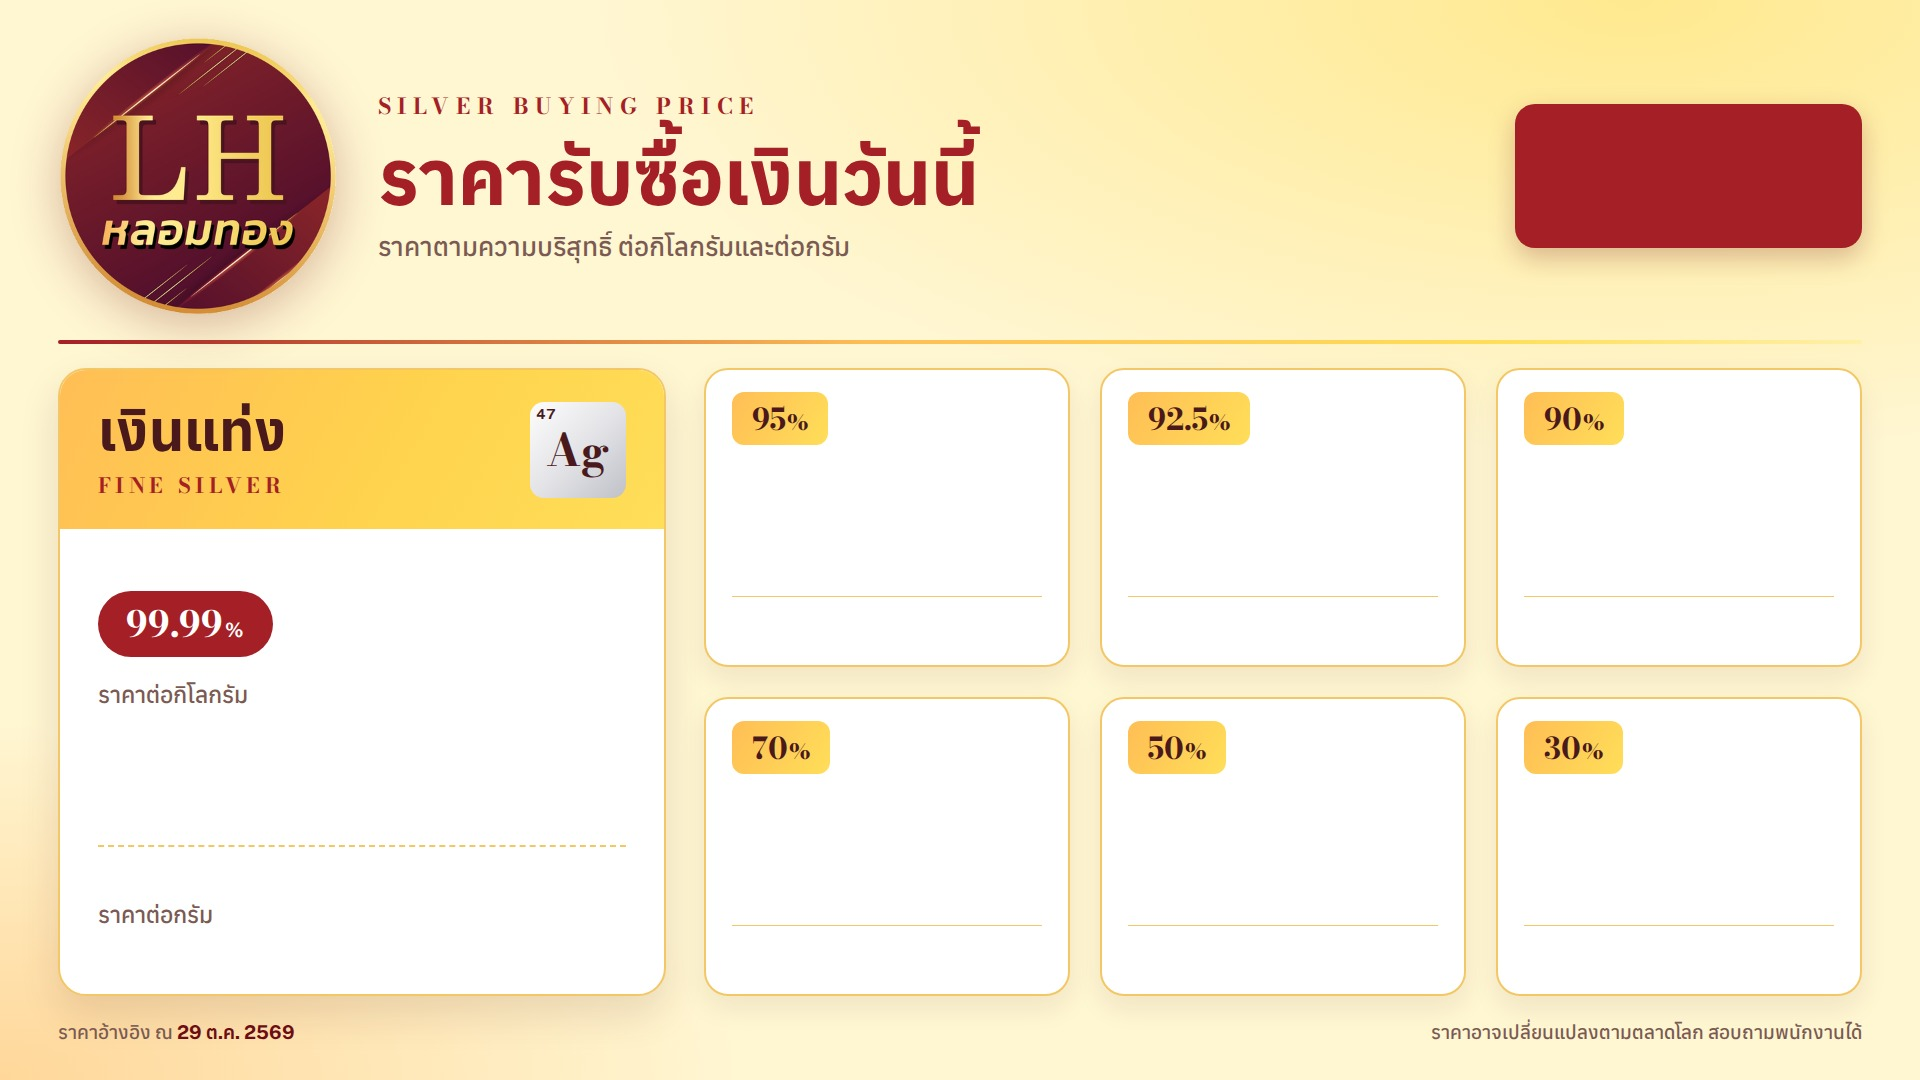
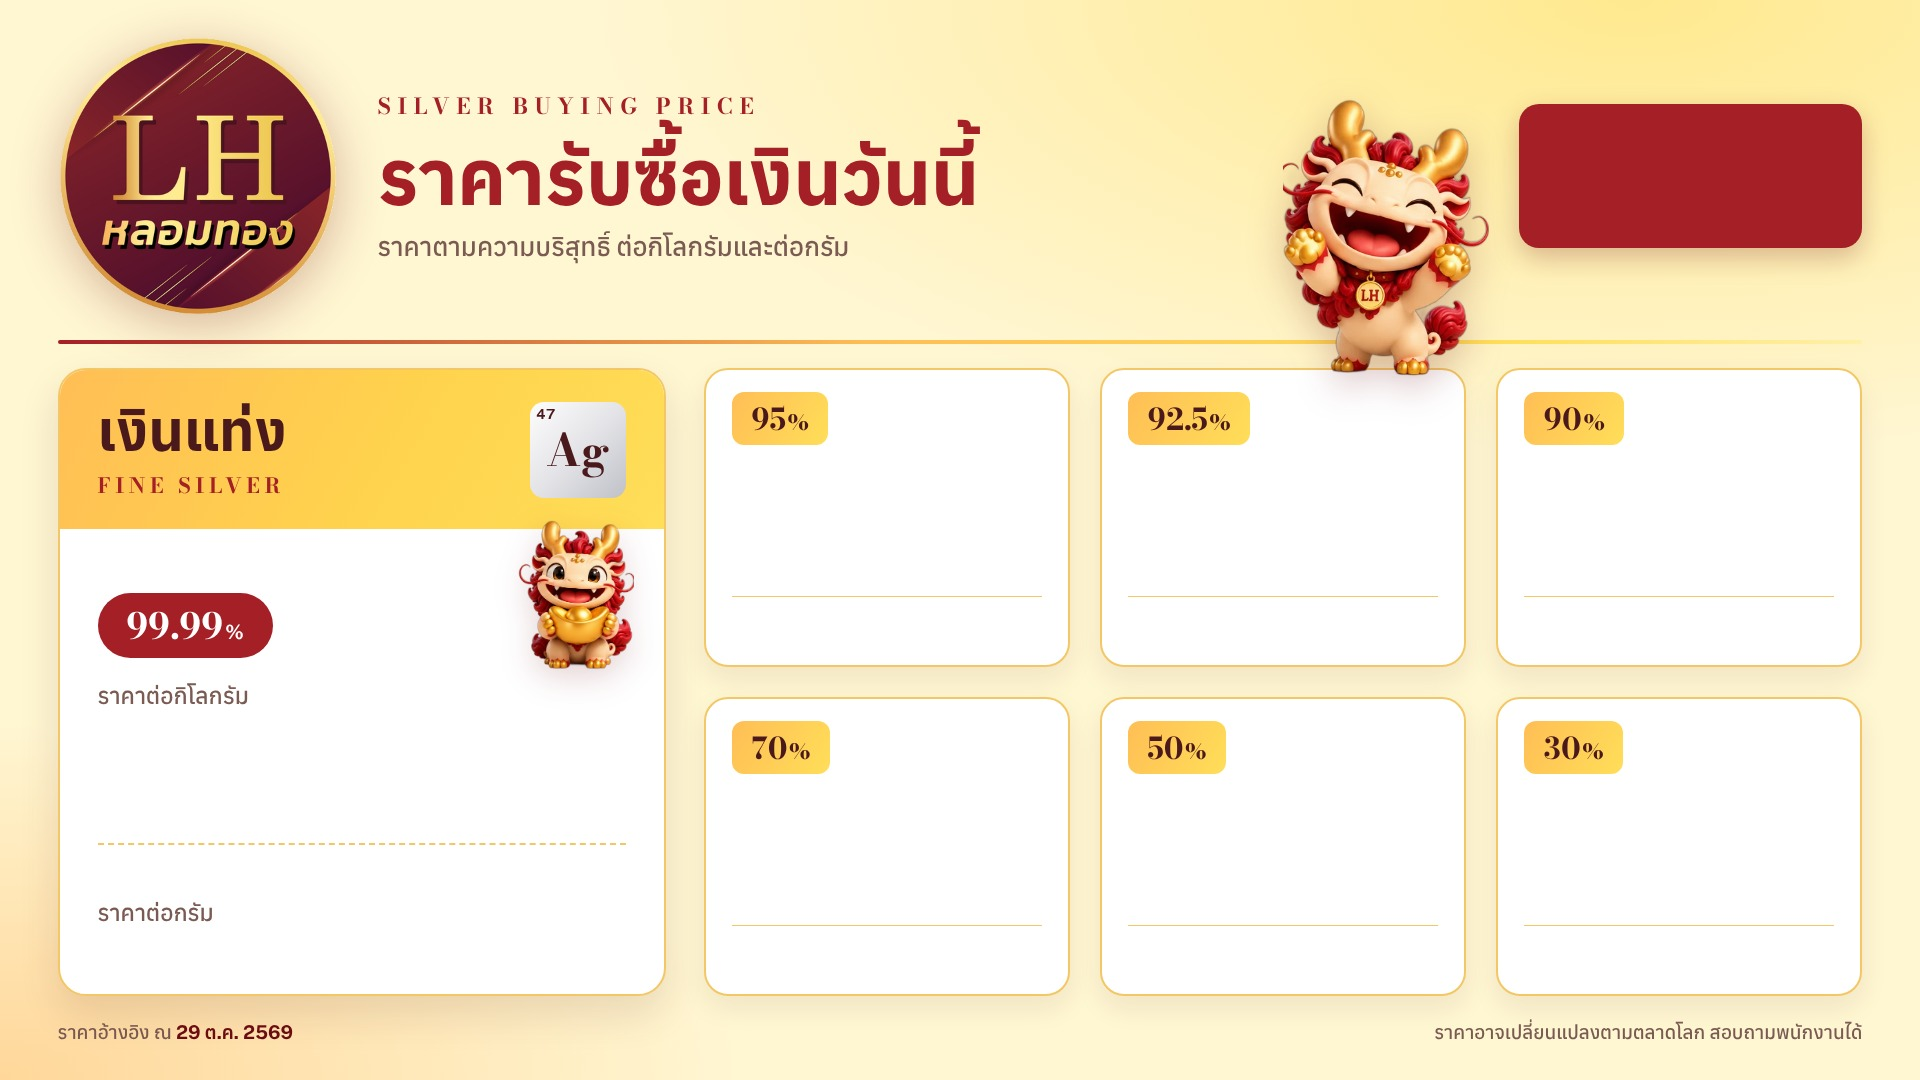
Add shop mascot to price, calculator, branch pages and TV board
Claude-Session: https://claude.ai/code/session_01DfymLQTPKgzDrxZZm2K99i

diff --git a/board.html b/board.html
@@ -47,6 +47,11 @@ header{display:flex;align-items:center;gap:40px;flex-wrap:wrap}
 .eyebrow{font-family:var(--display);font-weight:700;letter-spacing:.3em;text-transform:uppercase;color:var(--red);font-size:22px}
 .brand h1{margin:.15em 0 0;font-weight:700;font-size:76px;line-height:1.15;color:var(--burgundy);text-wrap:balance}
 .brand .sub{margin-top:.3em;font-size:26px;color:var(--muted);font-weight:500}
+.metal .price{position:relative}
+.metal .mm{position:absolute;right:22px;bottom:10px;height:170px;filter:drop-shadow(0 10px 16px rgba(109,12,19,.18))}
+.hero{position:relative}
+.hero .hm{position:absolute;right:30px;top:150px;height:150px;filter:drop-shadow(0 10px 16px rgba(109,12,19,.18))}
+.tvm{height:290px;margin:-60px -10px -62px 0;align-self:flex-end;filter:drop-shadow(0 12px 18px rgba(109,12,19,.25))}
 .clock{text-align:right;font-variant-numeric:tabular-nums;background:var(--burgundy);color:#fff;
   padding:22px 32px;border-radius:20px;box-shadow:0 10px 26px rgba(109,12,19,.25)}
 .clock .time{font-family:var(--display);font-weight:700;font-size:64px;line-height:1}
@@ -160,6 +165,7 @@ html{-webkit-text-size-adjust:100%;text-size-adjust:100%}
           <h1>ราคารับซื้อโลหะมีค่าวันนี้</h1>
           <div class="sub">แพลตินัม · แพลเลเดียม · โรเดียม</div>
         </div>
+        <img class="tvm" src="img/mascot-smile.webp" alt="">
         <div class="clock"><div class="time">--:--</div><div class="date"></div></div>
       </header>
       <hr class="rule">
@@ -180,6 +186,7 @@ html{-webkit-text-size-adjust:100%;text-size-adjust:100%}
           <h1>ราคารับซื้อเงินวันนี้</h1>
           <div class="sub">ราคาตามความบริสุทธิ์ ต่อกิโลกรัมและต่อกรัม</div>
         </div>
+        <img class="tvm" src="img/mascot-cheer.webp" alt="">
         <div class="clock"><div class="time">--:--</div><div class="date"></div></div>
       </header>
       <hr class="rule">
@@ -190,6 +197,7 @@ html{-webkit-text-size-adjust:100%;text-size-adjust:100%}
             <div class="sym" aria-hidden="true"><i>47</i><b>Ag</b></div>
           </div>
           <div class="body" id="silverHero"></div>
+          <img class="hm" src="img/mascot-ingot.webp" alt="">
         </article>
         <div class="grades" id="grades"></div>
       </div>
@@ -231,7 +239,7 @@ document.querySelectorAll(".asof").forEach(el => el.textContent = CONFIG.asOf);
 /* page 1 */
 const baseTHB = m => m.thbPerGram ?? m.usdPerGram * CONFIG.fx;
 const net = m => Math.round(baseTHB(m) * (1 - (m.discount ?? CONFIG.discount)) * 100) / 100;   /* ส่วนลดแยกรายโลหะได้ */
-document.getElementById("metals").innerHTML = CONFIG.metals.map(m => `
+document.getElementById("metals").innerHTML = CONFIG.metals.map((m, i) => `
   <article class="metal">
     <div class="band">
       <div class="names"><div class="th">${m.th}</div><div class="en">${m.en}</div></div>
@@ -241,6 +249,7 @@ document.getElementById("metals").innerHTML = CONFIG.metals.map(m => `
       <div class="label">ราคาต่อกรัม</div>
       <div class="num">${fmt0(net(m))}</div>
       <span class="unit">บาท / กรัม</span>
+      <img class="mm" src="img/mascot-${["look","ingot","play"][i % 3]}.webp" alt="">
     </div>
   </article>`).join("");
 

diff --git a/calc/index.html b/calc/index.html
@@ -29,6 +29,8 @@
   }
   /* header */
   header{display:flex;align-items:center;gap:10px}
+  header{position:relative}
+  header img.mascot{position:absolute;right:92px;bottom:-17px;width:auto;height:66px;border:0;border-radius:0;background:none;object-fit:contain;pointer-events:none;filter:drop-shadow(0 4px 8px rgba(0,0,0,.4))}
   header img{width:42px;height:42px;border-radius:11px;border:1px solid var(--gold);object-fit:cover;background:var(--burgundy)}
   .brand{flex:1;min-width:0}
   .brand h1{margin:0;display:flex;align-items:baseline;gap:6px;line-height:1}
@@ -119,6 +121,7 @@
 
   /* result */
   .result{margin-top:auto;padding:15px 16px;border-radius:20px;background:linear-gradient(135deg,#ffe57a 0%,#ffcf5c 45%,#e9a83a 100%);color:var(--ink);box-shadow:0 10px 30px rgba(255,189,89,.22)}
+  .result{position:relative}
   .result .top{display:flex;justify-content:space-between;align-items:center;font-size:13px;font-weight:700}
   .result .big{margin:3px 0 1px;font-size:40px;font-weight:800;letter-spacing:-.5px;line-height:1.1}
   .result .big small{font-family:'Noto Sans Thai',sans-serif;font-size:18px;font-weight:700;margin-left:6px}
@@ -137,6 +140,8 @@
   .guar .tag svg{flex:none}
   .reset{border:0;background:rgba(42,7,9,.12);color:var(--ink);font:inherit;font-size:12px;font-weight:700;padding:6px 10px;border-radius:999px;cursor:pointer}
   .notice{display:flex;gap:8px;align-items:flex-start;margin:0;padding:9px 12px;border-radius:12px;background:rgba(0,0,0,.3);font-size:12px;line-height:1.5;color:var(--cream)}
+  .notice .nmascot{flex:none;height:46px;margin:-6px 0 -6px -4px}
+  .notice{align-items:center}
   .notice svg{flex:none;margin-top:2px;color:var(--gold)}
   .foot{display:grid;grid-template-columns:1fr 1fr;gap:10px}
   .foot a{height:44px;border-radius:12px;display:flex;align-items:center;justify-content:center;gap:7px;text-decoration:none;font-weight:700;font-size:14px}
@@ -163,6 +168,7 @@
       <h1><span class="lh">LH</span><span class="nm">หลอมทอง</span></h1>
       <p>ประเมินราคารับซื้อเบื้องต้น</p>
     </div>
+    <img class="mascot" src="../img/mascot-look.webp" alt="" aria-hidden="true">
     <span class="live off" id="live"><i></i><span id="liveTxt">กำลังโหลด</span></span>
   </header>
 
@@ -276,7 +282,7 @@
   </section>
 
   <p class="notice" id="notice">
-    <svg aria-hidden="true" width="14" height="14" viewBox="0 0 24 24" fill="none" stroke="currentColor" stroke-width="2.2" stroke-linecap="round" stroke-linejoin="round"><circle cx="12" cy="12" r="9"/><path d="M12 8v5M12 16.5v.5"/></svg>
+    <img class="nmascot" src="../img/mascot-thanks.webp" alt="" aria-hidden="true">
     <span id="noticeTxt">ราคานี้เป็นการประเมินเบื้องต้น ราคารับซื้อจริงขึ้นอยู่กับ % และน้ำหนักหลังหลอมเท่านั้น</span>
   </p>
 

diff --git a/m/index.html b/m/index.html
@@ -46,7 +46,8 @@ body::before{content:"";position:fixed;inset:0 0 auto 0;height:calc(var(--u)*100
 .brand h1{margin:0;font:700 calc(var(--u)*20)/1.15 "Anuphan",sans-serif}
 .brand h1 b{color:var(--gold);font-family:"Bodoni Moda",serif;font-weight:700;margin-right:calc(var(--u)*5)}
 .brand p{margin:calc(var(--u)*2) 0 0;font:500 calc(var(--u)*13)/1.2 "Anuphan",sans-serif;color:#f6dfc0}
-.clock{text-align:right;font:500 calc(var(--u)*12)/1.25 "Anuphan",sans-serif;color:#f6dfc0}
+.mascot{position:absolute;right:calc(var(--u)*92);bottom:0;height:calc(var(--u)*98);z-index:0;pointer-events:none;filter:drop-shadow(0 calc(var(--u)*4) calc(var(--u)*8) rgba(0,0,0,.35))}
+.clock{position:relative;z-index:1;text-align:right;font:500 calc(var(--u)*12)/1.25 "Anuphan",sans-serif;color:#f6dfc0}
 .clock .num{display:block;font-size:calc(var(--u)*20);font-weight:700;color:#fff}
 
 main{position:relative;z-index:1;flex:1;min-height:0;margin-top:calc(var(--u)*-30);padding:0 calc(var(--u)*12) calc(var(--u)*8);
@@ -75,6 +76,7 @@ main{position:relative;z-index:1;flex:1;min-height:0;margin-top:calc(var(--u)*-3
 .silver .pill{background:var(--wine)}
 .silver .prices{display:flex;align-items:flex-end;justify-content:space-between;gap:calc(var(--u)*10);margin-top:calc(var(--u)*6)}
 .silver .kg .num{font-size:calc(var(--u)*38);color:var(--burgundy)}
+.silver .smascot{height:calc(var(--u)*66);margin:0 0 calc(var(--u)*-6) auto;align-self:flex-end;filter:drop-shadow(0 calc(var(--u)*3) calc(var(--u)*5) rgba(74,25,28,.18))}
 .silver .g{text-align:right;padding-left:calc(var(--u)*12);border-left:1px solid var(--line)}
 .silver .g .num{font-size:calc(var(--u)*26);color:var(--ink)}
 
@@ -101,6 +103,7 @@ main{position:relative;z-index:1;flex:1;min-height:0;margin-top:calc(var(--u)*-3
   <header>
     <img class="logo" src="logo.png" alt="LH หลอมทอง">
     <div class="brand"><h1><b>LH</b>หลอมทอง</h1><p>ราคารับซื้อวันนี้</p></div>
+    <img class="mascot" src="../img/mascot-cheer.webp" alt="" aria-hidden="true">
     <div class="clock"><span class="num" id="time">&nbsp;</span><span id="today">&nbsp;</span></div>
   </header>
 
@@ -117,6 +120,7 @@ main{position:relative;z-index:1;flex:1;min-height:0;margin-top:calc(var(--u)*-3
       <div class="row"><div class="label">เงิน 99.99%</div><span class="pill">รับซื้อ</span></div>
       <div class="prices">
         <div class="kg"><span class="num v skeleton" id="sKg">00,000</span><span class="unit">บาท / กิโลกรัม</span></div>
+        <img class="smascot" src="../img/mascot-play.webp" alt="" aria-hidden="true">
         <div class="g"><span class="num v skeleton" id="sG">00</span><span class="unit">บาท / กรัม</span></div>
       </div>
     </section>

diff --git a/branch/index.html b/branch/index.html
@@ -35,6 +35,8 @@
   a{text-decoration:none}
   .th{font-family:'Noto Sans Thai',sans-serif}
   header{display:flex;flex-direction:column;align-items:center;gap:8px;text-align:center}
+  header{position:relative}
+  header img.mascot{position:absolute;right:-4px;top:-6px;width:auto;height:118px;border:0;border-radius:0;box-shadow:none;object-fit:contain;filter:drop-shadow(0 8px 14px rgba(0,0,0,.45))}
   header img{width:80px;height:80px;border-radius:20px;border:1.5px solid var(--gold);box-shadow:0 8px 24px rgba(0,0,0,.45);object-fit:cover}
   .brand{display:flex;align-items:baseline;gap:8px;margin:0}
   .brand .lh{font-family:'Bodoni Moda',serif;font-weight:700;font-size:30px;letter-spacing:1px;color:var(--gold)}
@@ -57,9 +59,11 @@
   footer{display:flex;flex-direction:column;gap:10px}
   .line{background:var(--red);color:#fff;font-family:'Noto Sans Thai',sans-serif;font-size:14px}
   .share{border:1px solid rgba(255,222,89,.35);background:rgba(255,255,255,.06);color:var(--gold);font-family:'Noto Sans Thai',sans-serif;font-size:14px}
+  .tag .tmascot{height:40px;vertical-align:middle;margin:-10px 8px -8px 0}
   .tag{margin:0;text-align:center;font-family:'Bodoni Moda',serif;font-size:11px;letter-spacing:2px;color:#d9b98a}
   @media (max-height:700px){
     header img{width:60px;height:60px;border-radius:16px}
+    header img.mascot{width:auto;height:96px}
     .brand .lh{font-size:26px}.brand .name{font-size:21px}
     .card{padding:11px 14px;gap:8px}
     .btn{height:42px}
@@ -70,6 +74,7 @@
 <div class="page">
   <header>
     <img src="../m/logo.png" alt="โลโก้ LH หลอมทอง">
+    <img class="mascot" src="../img/mascot-wave.webp" alt="" aria-hidden="true">
     <h1 class="brand"><span class="lh">LH</span><span class="name">หลอมทอง</span></h1>
     <p class="sub th">เลือกสาขาที่สะดวก กดโทรหรือนำทางได้ทันที</p>
   </header>
@@ -87,7 +92,7 @@
         <span id="shareLabel">แชร์ลิงก์</span>
       </button>
     </div>
-    <p class="tag">LH LHOMTHONG · GOLD</p>
+    <p class="tag"><img class="tmascot" src="../img/mascot-run.webp" alt="" aria-hidden="true">LH LHOMTHONG · GOLD</p>
   </footer>
 </div>
 
